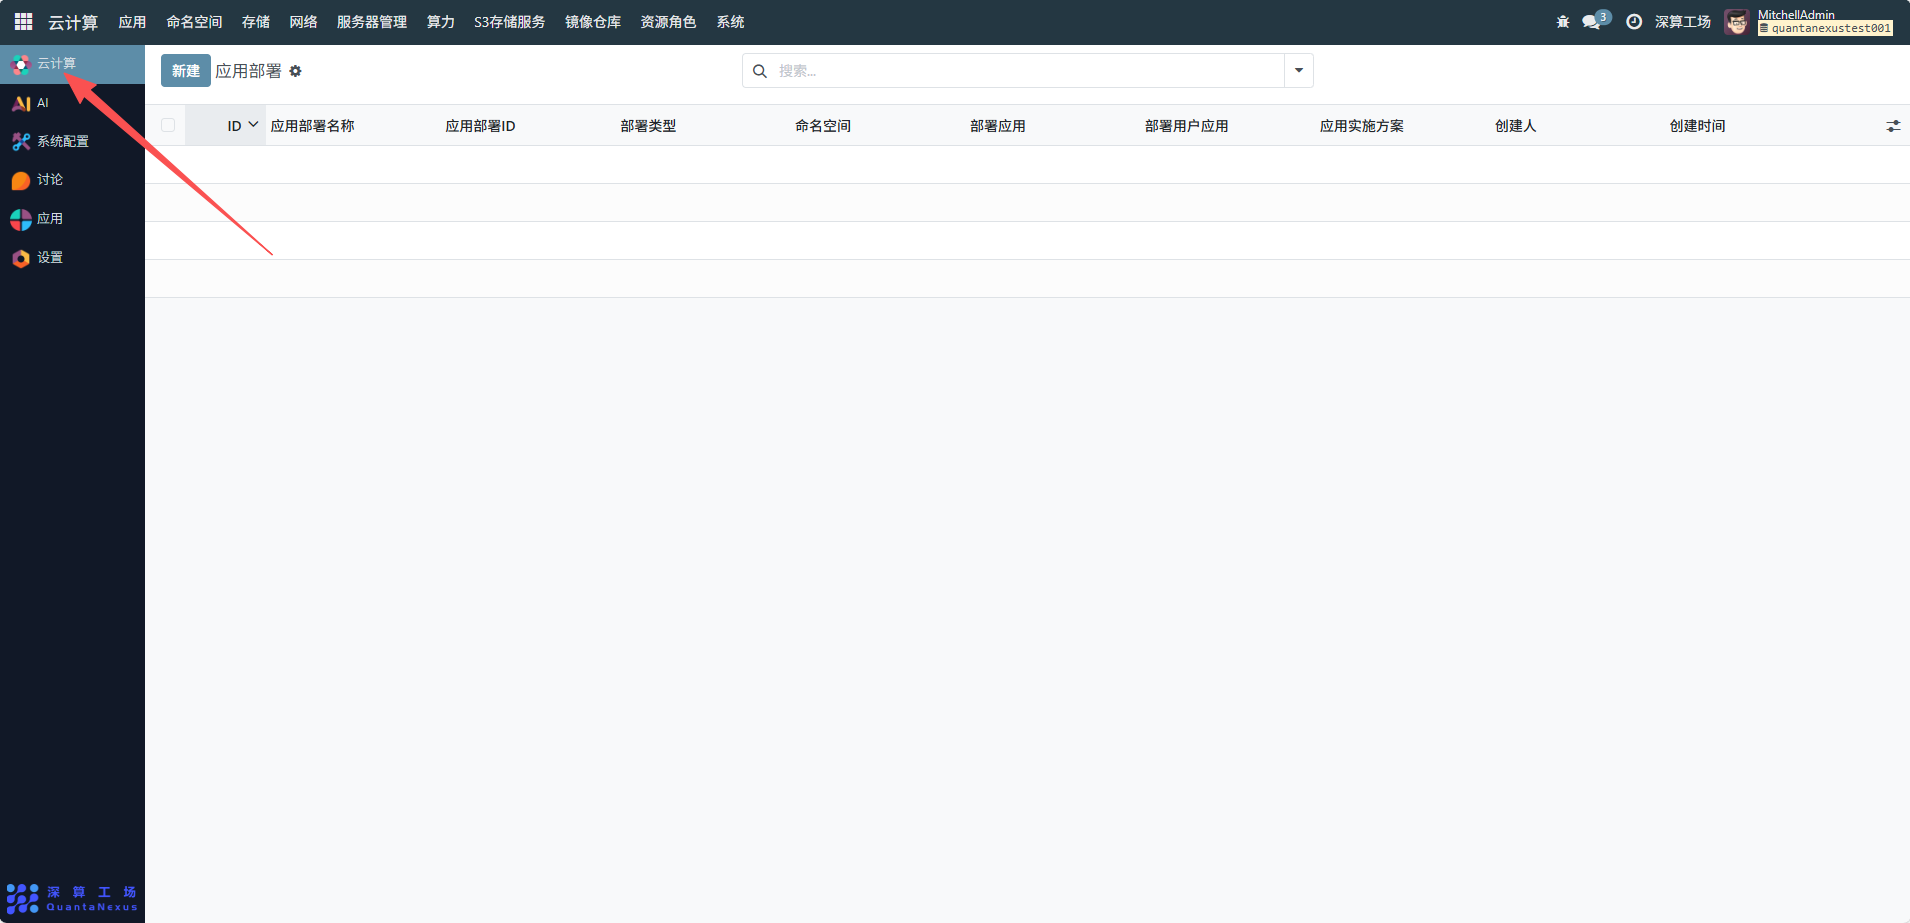
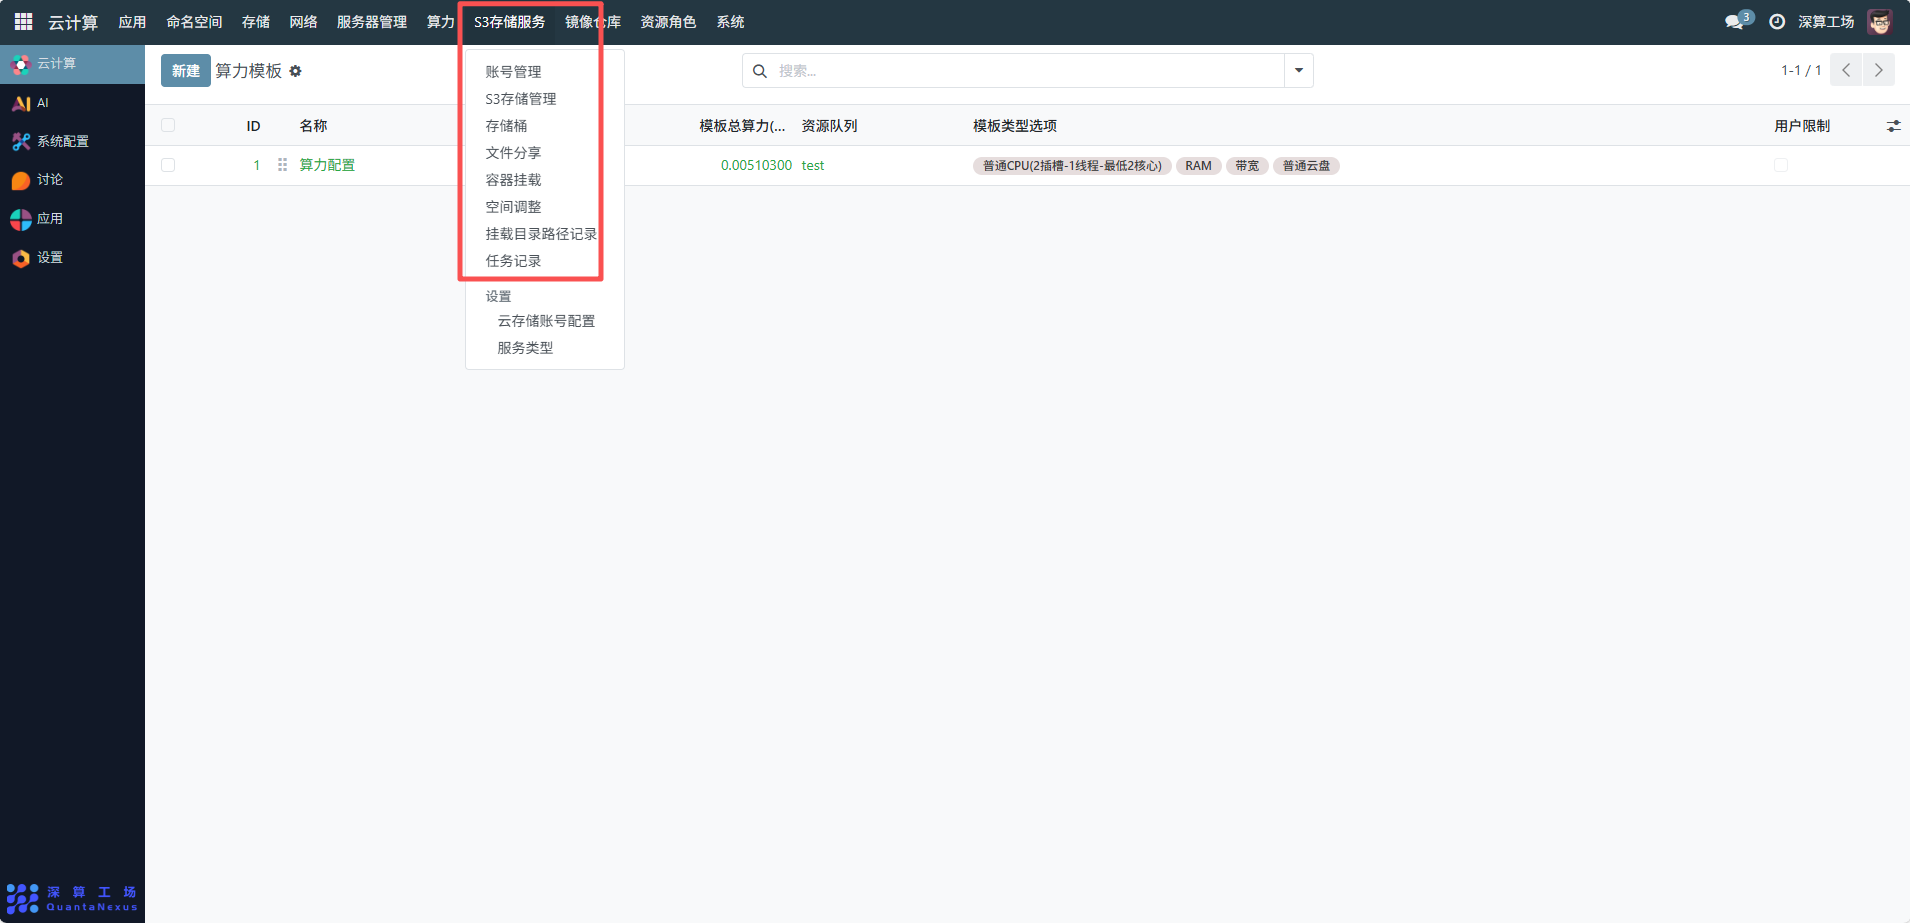
更新文档

diff --git a/admin-manual/s3-storage/s3-storage-management.md b/admin-manual/s3-storage/s3-storage-management.md
@@ -1,0 +1,30 @@
+# S3存储管理
+OSS 存储管理界面，用于全局管控所有用户的对象存储资源，其支撑了非结构化数据（如文件、多媒体、）的持久化存储与高效访问，是平台数据生态中 “数据底座” 的关键组成部分，为上层应用提供可靠的存储资源支撑。
+要管理配置 OSS 存储，可按照以下流程操作：
+## 1、存储桶数量与空间调整
+调整存储桶数量上限：点击 “调整存储桶数量上限” 按钮，可修改用户可创建的存储桶数量限制，根据业务需求设置合理的数量（如增加或减少存储桶配额）。
+调整用户存储最大存储空间：点击 “调整用户存储最大存储空间” 按钮，设置用户可使用的总存储空间上限（如示例中总空间为 500.00 GB），确保满足业务数据存储需求。
+
+![alt text](image-5.png)
+![alt text](image-6.png)
+
+## 2、存储桶管理
+关联存储桶：切换至 “关联存储桶” 标签页，可将已有存储桶与当前用户关联，实现存储桶的归属管理。
+管理用户存储桶：在 “用户存储桶” 列表中，可查看每个存储桶的 ID、名称、自定义名称、已使用大小和可使用大小等信息；若需删除存储桶，点击对应存储桶的删除按钮（垃圾桶图标）即可。
+
+![alt text](image-7.png)
+
+## 3、存储空间容量明细查看
+切换至 “存储空间容量明细” 标签页，可查看存储空间的详细使用情况，包括各存储桶的容量占用明细，便于掌握存储资源的使用分布。
+
+![alt text](image-8.png)
+
+## 4、应用同步存储桶空间
+点击 “应用同步存储桶空间” 按钮，可将存储桶空间配置同步到关联的应用中，确保应用侧的存储配置与 OSS 存储管理侧保持一致。
+
+![alt text](image-9.png)
+
+## 5、备注与消息
+切换至 “备注” 标签页，可填写 OSS 存储管理的相关说明信息，如配置变更原因、存储用途等。
+
+![alt text](image-10.png)

diff --git a/admin-manual/s3-storage/task-records.md b/admin-manual/s3-storage/task-records.md
@@ -1,0 +1,32 @@
+# 任务记录
+后台管理中的 任务记录，主要用于 追踪、监控和审计系统中各类操作任务的执行情况。
+## 1、基本信息配置
+任务名称：可查看任务的标识名称，如 “OSS 上传任务_20251111”，便于识别任务用途。
+任务类型：选择任务类型（如示例中的 “上传”，也可根据需求选择 “下载”“删除” 等类型）。
+任务 KEY：可查看任务的唯一标识 KEY，用于系统内任务的区分和关联。
+
+![alt text](image-28.png)
+
+## 2、任务状态与用户管理
+状态：可通过 “设置状态为等待中” 按钮将任务状态设置为 “等待中”，也可根据任务执行进度手动调整为 “执行中”“已完成”“失败” 等状态。
+用户：确认任务所属用户（如示例中的 “MitchellAdmin”），确保任务归属正确。
+
+![alt text](image-29.png)
+
+## 3、任务数据与执行配置
+任务数据：填写任务的具体数据信息，以上传任务为例，可填写待上传文件的路径、存储桶信息等。
+重试次数与最大重试次数：设置任务的重试机制，示例中 “最大重试次数” 为 3，可根据需求调整；“重试次数” 会随任务自动重试次数更新。
+
+![alt text](image-30.png)
+
+## 4、任务监控与追溯
+执行结果与错误信息：任务执行后，系统会自动记录 “执行结果”（成功 / 失败）和 “错误信息”（若失败），便于问题排查。
+完成时间、最后重试时间、进度、预计完成时间：这些字段会随任务执行自动更新，用于监控任务进度和耗时。
+
+![alt text](image-31.png)
+
+## 5、任务操作
+执行复制：若需创建相同配置的任务，点击 “执行复制” 按钮，快速生成新任务并修改差异化配置。
+备注：填写任务的备注信息，如 “重要业务数据上传任务，需优先执行”，便于后续追溯管理。
+
+![alt text](image-32.png)

diff --git a/admin-manual/s3-storage/account-management.md b/admin-manual/s3-storage/account-management.md
@@ -1,0 +1,27 @@
+# OSS服务账号管理
+OSS 服务账号管理界面，用于集中管理对象存储服务（OSS）的账号资源，为平台管理员提供了对象存储服务的账号入口，助力管理员在云计算环境中高效管理非结构化数据（如文件、图片、视频等）的存储与访问。下面是oss服务账号管理的一个流程。
+## 1、 Ceph 存储桶用户
+点击创建 Ceph 存储桶用户按钮，系统会自动生成 Ceph API 用户名、SecretKey 和 AccessKey，并在界面中展示，创建后，“Ceph 账号已创建” 会显示勾选状态。
+
+![alt text](image.png)
+
+## 2、Ceph 存储桶用户子账号
+点击创建 Ceph 存储桶用户子账号按钮，系统会为当前用户生成子账号的 AccessKey 和 SecretKey子账号会显示在 “子账号” 列表中，可查看其 ID、Servers Type（默认 Ceph）、Account 等信息。需注意有效子账号最大限制（示例中为 10），不可超过该限制创建。
+
+![alt text](image-1.png)
+
+## 3、关联 Ceph 存储桶用户
+若需将现有 Ceph 存储桶用户与系统账号关联，点击关联 Ceph 存储桶用户按钮，按照提示输入 Ceph 用户的 API 用户名、SecretKey 和 AccessKey，完成关联操作。
+
+![alt text](image-2.png)
+
+## 4、管理子账号
+查看子账号信息：在 “子账号” 列表中，可查看每个子账号的 AccessKey、SecretKey 等详情。
+删除子账号：点击子账号对应的删除账号按钮，可删除不需要的子账号（删除前需确认该子账号无正在使用的存储桶关联）。
+
+![alt text](image-3.png)
+
+## 5、日志与备注
+切换至 “日志、备注” 标签页，可查看账号操作的日志记录，或填写备注信息（如子账号的用途说明）。
+
+![alt text](image-4.png)

diff --git a/admin-manual/computing.md b/admin-manual/computing.md
@@ -1,8 +1,4 @@
-# 云计算
+# 算力点管理及算力模板配置
 ### 概述
-深算工场后台的“云计算”管理模块包含了用于部署各种实验环境的“应用”。应用用于定义部署一个实验环境的完整过程。 当我们选择使用一个应用后，就可以使用这个应用来一键搭建我们的实验环境。
-1，统一管理算力：整合 GPU、芯片等异构资源，通过智能调度实现万卡级集群的高效利用，满足大模型训练、科研计算等对高算力的需求。
-2，全生命周期管理实验环境：支持实验环境的创建、部署、监控和运维，可管理环境 ID、IP、状态等关键参数，方便用户快速定位和操作资源。
-3，资源隔离与安全管控：通过命名空间机制实现不同项目 / 用户的资源隔离，保障数据和算力使用的安全性。
-4，适配多场景需求：既能支撑高校科研实训（如一键创建实验环境、资源配额管理），也能满足商业化运营（如用户自主注册、算力充值）。
-![alt text](image.png)
+算力点管理模块主要围绕算力资源的配置、调度、计量和管理展开。其中，算力模板和模板选项用于快速配置算力资源；算力配置记录追溯配置变更；资源队列调度分配算力；算力点管理（含用户算力点、算力消耗、变动明细、增加明细）以及点卡、点卡使用记录，用于对算力使用的计量、消耗、变动和点卡类资源进行全流程管理，实现算力资源从创建、调度到使用计量的闭环管理。
+![alt text](image-1.png)

diff --git a/admin-manual/s3-storage/storage-bucket.md b/admin-manual/s3-storage/storage-bucket.md
@@ -1,0 +1,20 @@
+# 存储桶
+主要用于管理员对系统中所有用户的存储桶进行集中化管理，包括查看存储桶的资源分布、使用状态、性能参数等，便于开展资源调配、状态监控和合规性管理，确保存储资源的高效利用与安全可控。
+## 1、基础信息配置
+- 名称与自定义名称：确认存储桶的系统名称（如hi168-34-0809hyv5）和自定义名称（如1111），自定义名称可根据业务需求修改，便于识别存储桶用途。
+- 用户与服务关联：确认存储桶关联的用户（如yfq321）和 OSS 服务（如yfq321），确保归属关系正确。
+
+![alt text](image-11.png)
+
+## 2、性能与空间配置
+- 上传 / 下载速率：查看或调整存储桶的上传速率（如307.200 Mbps）和下载速率（如102.400 Mbps），根据业务对传输速度的需求进行配置。
+- 存储空间：确认可使用空间（如1,024.00 GB），若需调整，可通过上层 OSS 存储管理界面修改存储桶的空间配额。
+- 桌面快捷方式：如需为存储桶创建桌面快捷方式以方便访问，勾选 “是否创建桌面快捷方式” 选项。
+
+![alt text](image-12.png)
+
+## 3、用户存储详情管理
+- 文件管理：点击 “添加行” 可已上传文件，文件地址、名称、大小等信息；也可查看已有文件的 Etag、MD5、KEY 等元数据，实现文件的增删改查管理。
+- Bucket 状态：在 “用户 Buckets 使用中” 列，可标记存储桶是否处于使用状态，便于资源调度和管理。
+
+![alt text](image-13.png)

diff --git a/admin-manual/s3-storage/space-adjustment.md b/admin-manual/s3-storage/space-adjustment.md
@@ -1,0 +1,25 @@
+# 存储空间调整
+存储空间调整管理界面，管理员可通过该界面查看和管理所有用户的 OSS 存储空间调整记录
+## 1、选择 OSS 管理用户
+在 “OSS 管理 - 用户” 下拉框中，选择需要调整存储空间的目标用户。
+
+![alt text](image-21.png)
+
+## 2、配置调整参数
+调整容量 (GB)：输入需要调整的存储空间大小（以 GB 为单位），例如增加 50GB 则输入 “50.00”，减少 20GB 则输入 “-20.00”。
+是否来自于订单充值：若存储空间调整源于用户的订单支付（如购买存储扩容套餐），勾选此选项；否则不勾选。
+是否来自于 VIP：若调整是 VIP 用户的专属权益（如 VIP 免费扩容），勾选此选项；否则不勾选。
+
+![alt text](image-22.png)
+
+## 3、设置生效时间
+是否长期有效：若调整的存储空间长期有效，勾选此选项；若为临时调整（如活动期间扩容），则不勾选并设置以下时间参数。
+开始时间：选择存储空间调整的生效开始时间。
+结束时间：选择存储空间调整的失效结束时间（仅当 “是否长期有效” 未勾选时需设置）。
+
+![alt text](image-23.png)
+
+## 4、执行调整
+确认所有配置信息无误后，点击执行调整按钮，系统会根据配置自动更新用户的存储空间配额。
+
+![alt text](image-24.png)

diff --git a/admin-manual/s3-storage/mounted-directory-logs.md b/admin-manual/s3-storage/mounted-directory-logs.md
@@ -1,0 +1,20 @@
+# 挂载目录路径记录
+应用模板中挂载目录路径记录管理界面，管理员可通过该界面查看和管理所有应用模板中存储桶挂载到 VM 的目录路径配置，管理员统一管理应用模板存储挂载配置的关键工具，通过标准化记录挂载路径，保障应用部署时存储资源访问的一致性与可靠性。
+## 1、挂载目录路径信息
+存储桶挂载在 Pod 或 VM 里的目录路径：可查看存储桶在应用模板对应的 Pod（容器）或 VM（虚拟机）中的具体挂载路径，该路径需符合 Pod/VM 的文件系统规范，确保应用能通过此路径访问挂载的存储资源。
+
+![alt text](image-25.png)
+
+## 2、关联所属模板
+所属模板：从下拉选项中选择该挂载路径对应的应用模板（需提前创建应用模板），建立挂载路径与应用模板的关联关系，确保配置仅对目标模板生效。
+
+![alt text](image-26.png)
+
+## 3、记录
+- 配置完成后，系统会自动记录以下信息，无需手动填写，用于后续追溯管理：
+- Created by：创建该配置的用户。
+- Created on：配置的创建时间。
+- Last Updated by：最后修改该配置的用户。
+- Last Updated on：最后修改时间。
+
+![alt text](image-27.png)

diff --git a/admin-manual/s3-storage/file-sharing.md b/admin-manual/s3-storage/file-sharing.md
@@ -1,0 +1,24 @@
+# 文件分享
+主要用于管理员对系统内所有用户的文件分享行为进行集中管控
+## 1、可查看用户 OSS 源文件
+在 “用户 OSS 源文件” 字段中，选择需要查看的源文件，确保文件归属和路径正确。
+
+![alt text](image-14.png)
+
+## 2、配置分享类型与权限
+- 是否匿名链接：若允许匿名访问分享链接，勾选该选项；若需限制访问（如仅授权用户可访问），则不勾选。
+- 分享类型：选择分享类型，如 “限时”（需设置过期时间）或 “永久”（无过期限制）。
+- 分享链接的过期时间：若选择 “限时” 分享类型，需在此处设置具体的过期时间，确保链接在指定时间后失效。
+
+![alt text](image-15.png)
+
+## 3、管理分享链接状态
+- 若需停止分享，点击将链接标记为无效，使链接无法再被访问；
+- 若需恢复已失效的链接，点击将链接恢复为有效，重新启用分享功能。
+
+![alt text](image-16.png)
+
+## 4、填写说明
+在 “说明” 字段中，填写该文件分享的用途、备注等信息（如 “项目资料临时分享，有效期 7 天”），便于后续追溯管理。
+
+![alt text](image-17.png)

diff --git a/admin-manual/s3-storage/container-mounting.md b/admin-manual/s3-storage/container-mounting.md
@@ -1,0 +1,19 @@
+# 实验环境挂载OSS
+实验环境挂载 OSS 管理界面，管理员可通过该界面管理系统中实验环境与 OSS 存储的挂载关系。
+## 1、选择存储桶
+在 “存储桶” 字段中，选择需要挂载的 OSS 存储桶，确保存储桶的归属和权限符合实验环境需求。
+
+![alt text](image-18.png)
+
+## 2、配置挂载信息
+- 挂载类型：确认挂载类型为 “存储桶”（默认已选择，若有其他类型可按需切换）。
+- 挂载文件夹地址：输入实验环境中用于挂载 OSS 存储桶的本地文件夹地址，例如/data/experiment_oss，需确保该路径在实验环境中可访问且有足够权限。
+- 所属部署：选择该挂载配置所属的部署环境。
+- 所属部署的挂载路径：输入部署环境中对应的挂载路径，与 “挂载文件夹地址” 保持一致或根据部署规则填写，确保路径映射正确。
+
+![alt text](image-19.png)
+
+## 3、确认创建与更新信息
+界面下方的 “Created by”“Created on”“Last Updated by”“Last Updated on” 为系统自动记录的创建和更新信息，无需手动配置，可用于追溯挂载配置的操作历史。
+
+![alt text](image-20.png)

diff --git a/README.md b/README.md
@@ -105,3 +105,12 @@
     * [5、算力消耗](admin-manual/computing-power/compute-consumption.md)
     * [6、变动明细](admin-manual/computing-power/change-detail.md)
     * [7、增加明细](admin-manual/computing-power/addition-detail.md)
+* [二、s3存储管理](admin-manual/s3.md)
+    * [1、oss服务账号管理](admin-manual/s3-storage/account-management.md)
+    * [2、s3存储管理](admin-manual/s3-storage/s3-storage-management.md)
+    * [3、存储桶](admin-manual/s3-storage/storage-bucket.md)
+    * [4、文件分享](admin-manual/s3-storage/file-sharing.md)
+    * [5、实验环境挂载OSS](admin-manual/s3-storage/container-mounting.md)
+    * [6、存储空间调整](admin-manual/s3-storage/space-adjustment.md)
+    * [7、挂载目录路径记录](admin-manual/s3-storage/mounted-directory-logs.md)
+    * [8、任务记录](admin-manual/s3-storage/task-records.md)

diff --git a/admin-manual/s3.md b/admin-manual/s3.md
@@ -1,0 +1,5 @@
+# s3存储管理
+### 概述
+S3 存储服务模块围绕存储资源的账号、容器、空间、任务等多维度展开管理，涵盖账号管理、存储桶与文件分享、容器挂载与空间调整、任务与路径记录，还支持存储设置、云存储账号配置及服务类型管理，实现 S3 存储从资源分配、数据共享到任务监控、服务对接的全流程管控。
+
+![alt text](image.png)
